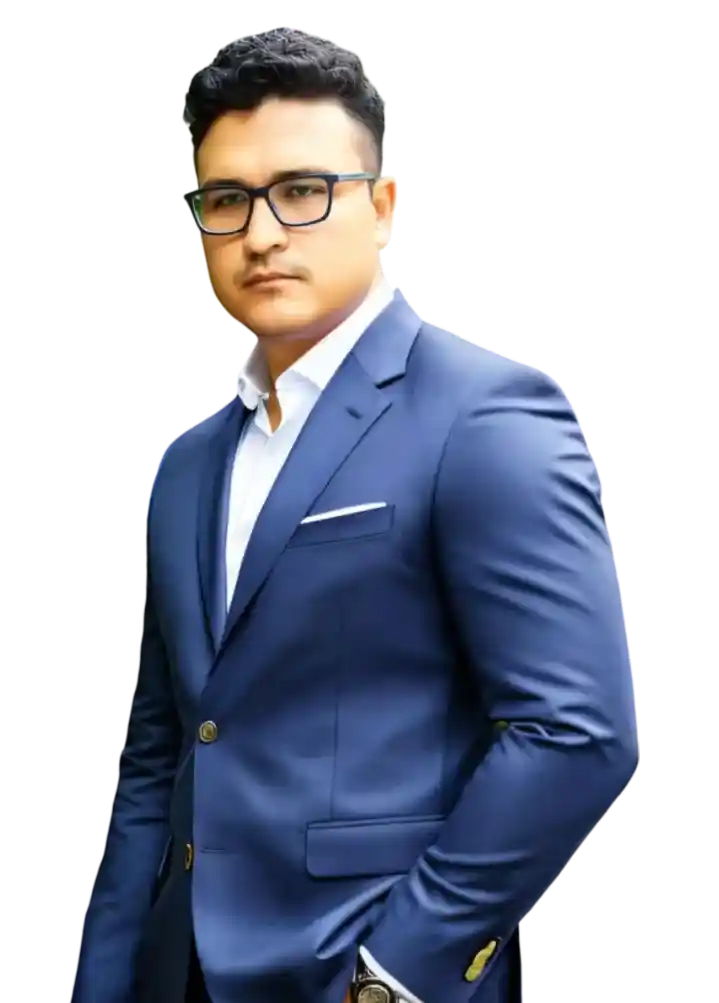
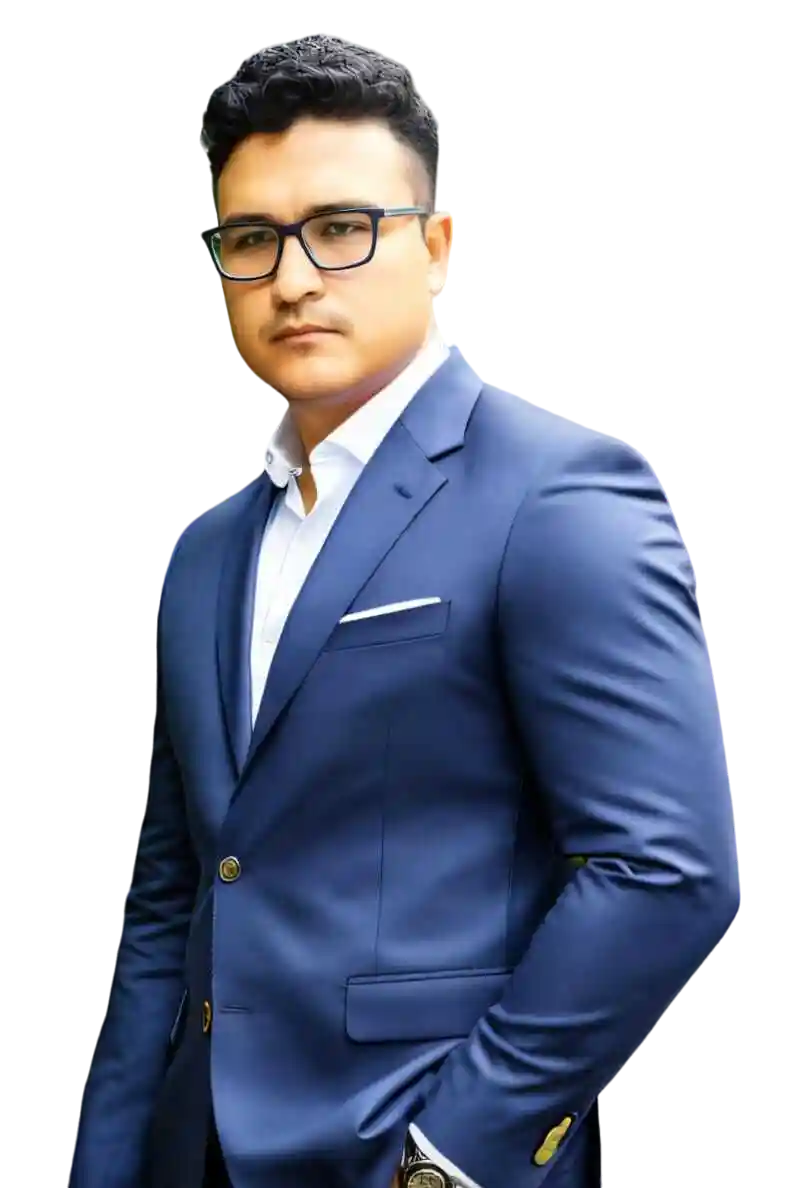
Upgrade image

diff --git a/src/app/(home)/components/HeroSection.tsx b/src/app/(home)/components/HeroSection.tsx
@@ -27,7 +27,7 @@ export default function HeroSection() {
                 <div className='relative'>
                     <div className='w-72 h-[25rem] space-x-3 relative'>
                         <div className='glow absolute top-[80%] right-1/2 -z-10'></div>
-                        <Image loading='lazy' width={640} height={893} src="/profile.webp" alt="Edwar Amaya" />
+                        <Image loading='lazy' width={288} height={401} src="/profile.webp" alt="Edwar Amaya" />
                     </div>
                     <div className='absolute bottom-5 sm:bottom-8 left-0 sm:left-5'>
                         <Button className='px-5 py-3 font-semibold' borderRadius='0.5rem' duration={3000}>
